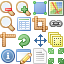
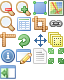
#517 iconHideLeftBar was added

diff --git a/nextgisweb/static/css/icon.css b/nextgisweb/static/css/icon.css
@@ -1,5 +1,5 @@
 /* glue: 0.11.1 hash: 6d4821e8df */
-        .iconZoomOut,
+.iconZoomOut,
 .iconZoomIn,
 .iconZoom,
 .iconTable,
@@ -14,9 +14,9 @@
 .iconIdentify,
 .iconFeatureEdit,
 .iconDescription,
-.iconArrowInOut {
-            background-image: url('../img/icon.png');
-            background-repeat: no-repeat;
+.iconArrowInOut,
+.iconHideLeftBar {
+            background: url('../img/icon.png') no-repeat;
         }
         
         .iconZoomOut {
@@ -114,6 +114,12 @@
             width: 16px;
             height: 16px;
         }
+
+        .iconHideLeftBar {
+            background-position: -0px -64px;
+            width: 16px;
+            height: 16px;
+        }
         
         @media screen and (-webkit-min-device-pixel-ratio: 1.0), screen and (min--moz-device-pixel-ratio: 1.0), screen and (-o-min-device-pixel-ratio: 100/100), screen and (min-device-pixel-ratio: 1.0), screen and (min-resolution: 1.0dppx) {
             .iconZoomOut,
@@ -131,11 +137,12 @@
     .iconIdentify,
     .iconFeatureEdit,
     .iconDescription,
-    .iconArrowInOut {
+    .iconArrowInOut,
+    .iconHideLeftBar {
                 background-image: url('../img/icon.png');
-                -webkit-background-size: 64px 64px;
-                -moz-background-size: 64px 64px;
-                background-size: 64px 64px;
+                -webkit-background-size: 64px 80px;
+                -moz-background-size: 64px 80px;
+                background-size: 64px 80px;
             }
         }
         
